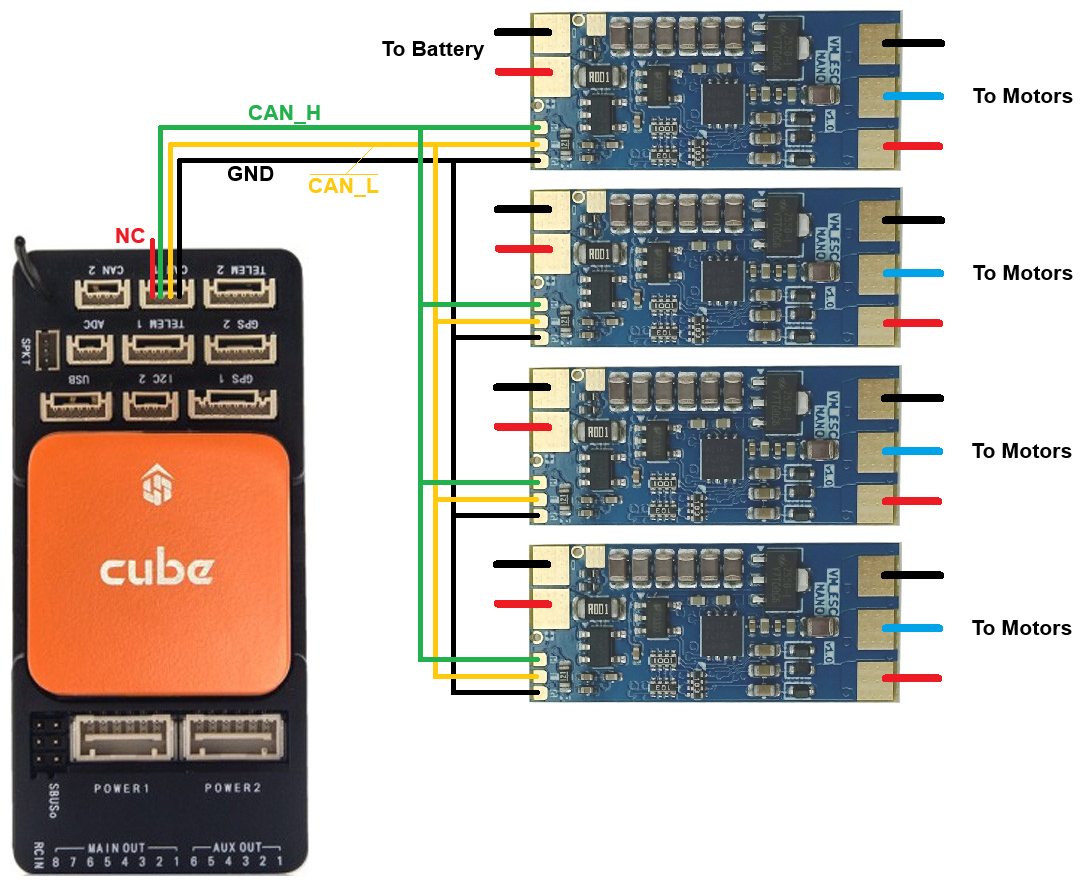
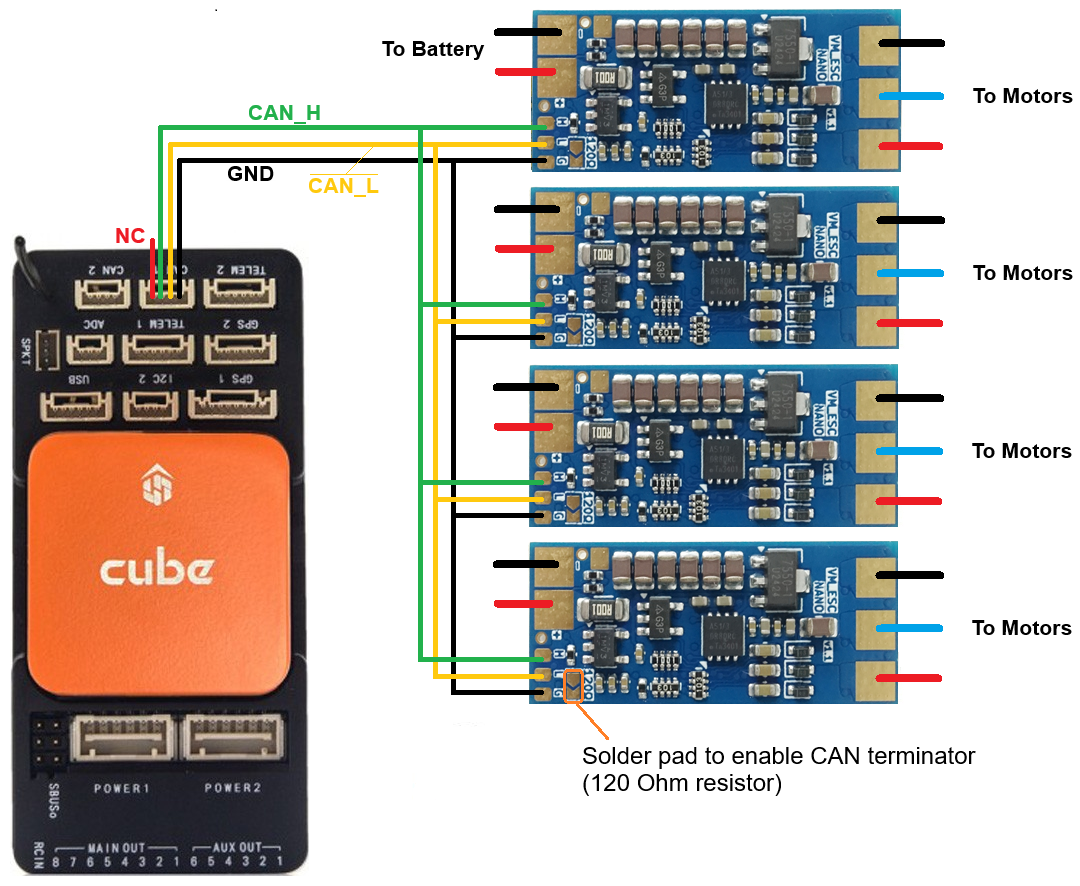
Common: AM32 dronecan ESC wiring gets terminator

Changed region(s): [[0.4889, 0.0, 0.8556, 0.8228], [0.55, 0.8228, 0.8861, 0.9142]]

diff --git a/common/source/docs/common-am32-escs.rst b/common/source/docs/common-am32-escs.rst
@@ -23,7 +23,7 @@ More ESCs may be found from the `AM32 targets.h <https://github.com/am32-firmwar
 ArduPilot Connection and Configuration
 ======================================
 
-The ESCs should be connected to the autopilot's CAN port.  Below shows the ESCs connected to the autopilot's CAN1 port but CAN2 may also be used.
+The ESCs should be connected to the autopilot's CAN port.  Below shows the ESCs connected to the autopilot's CAN1 port but CAN2 may also be used.  The ESC furthest from the autopilot's CAN port should have a CAN bus terminator connecting the CAN_L and CAN_H pins.  The VimDrones ESC shown includes a solder pad for this purpose.
 
 .. image:: ../../../images/am32-autopilot-wiring.png
     :width: 450px
